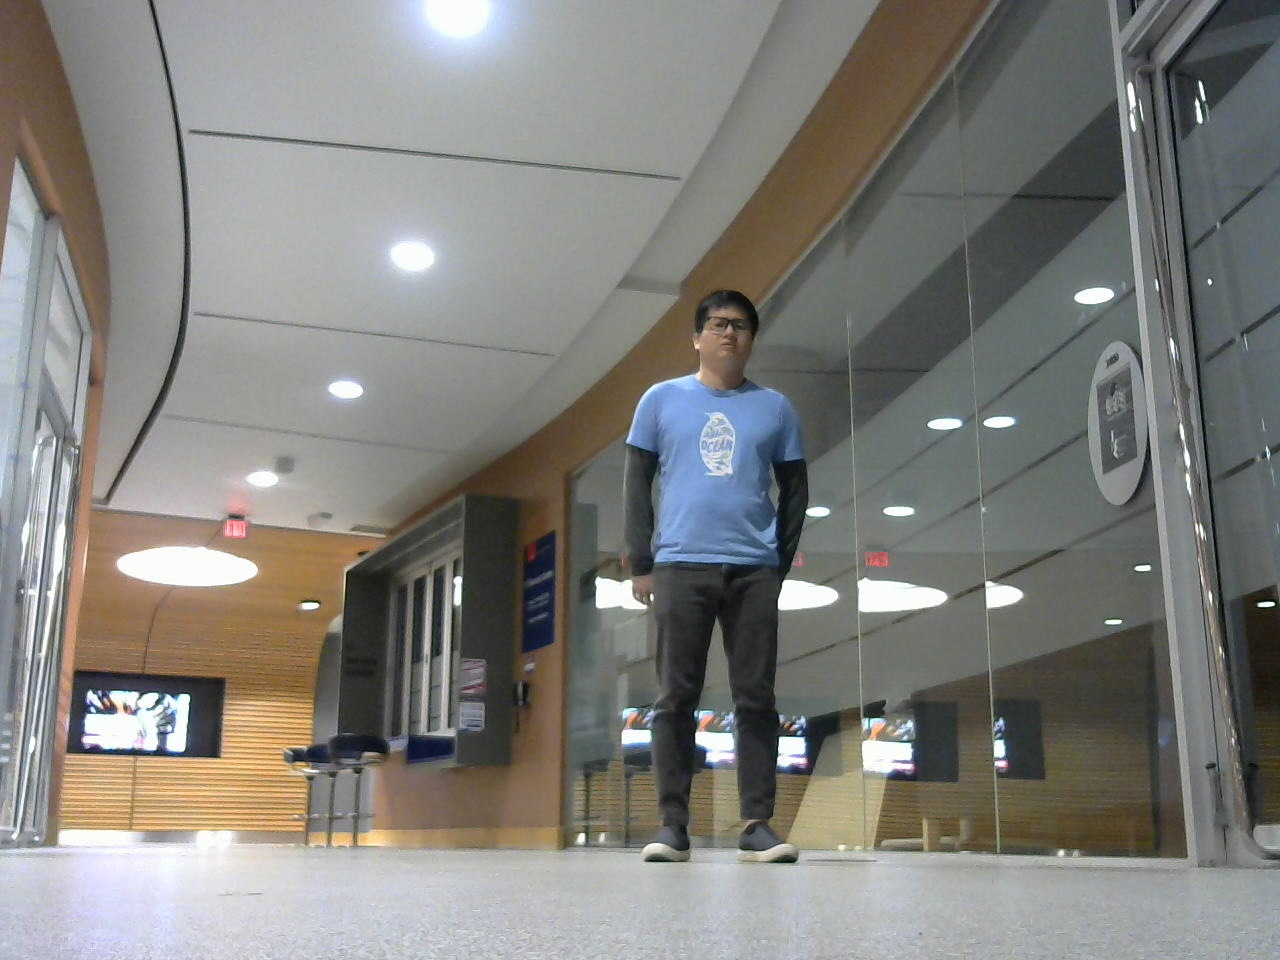
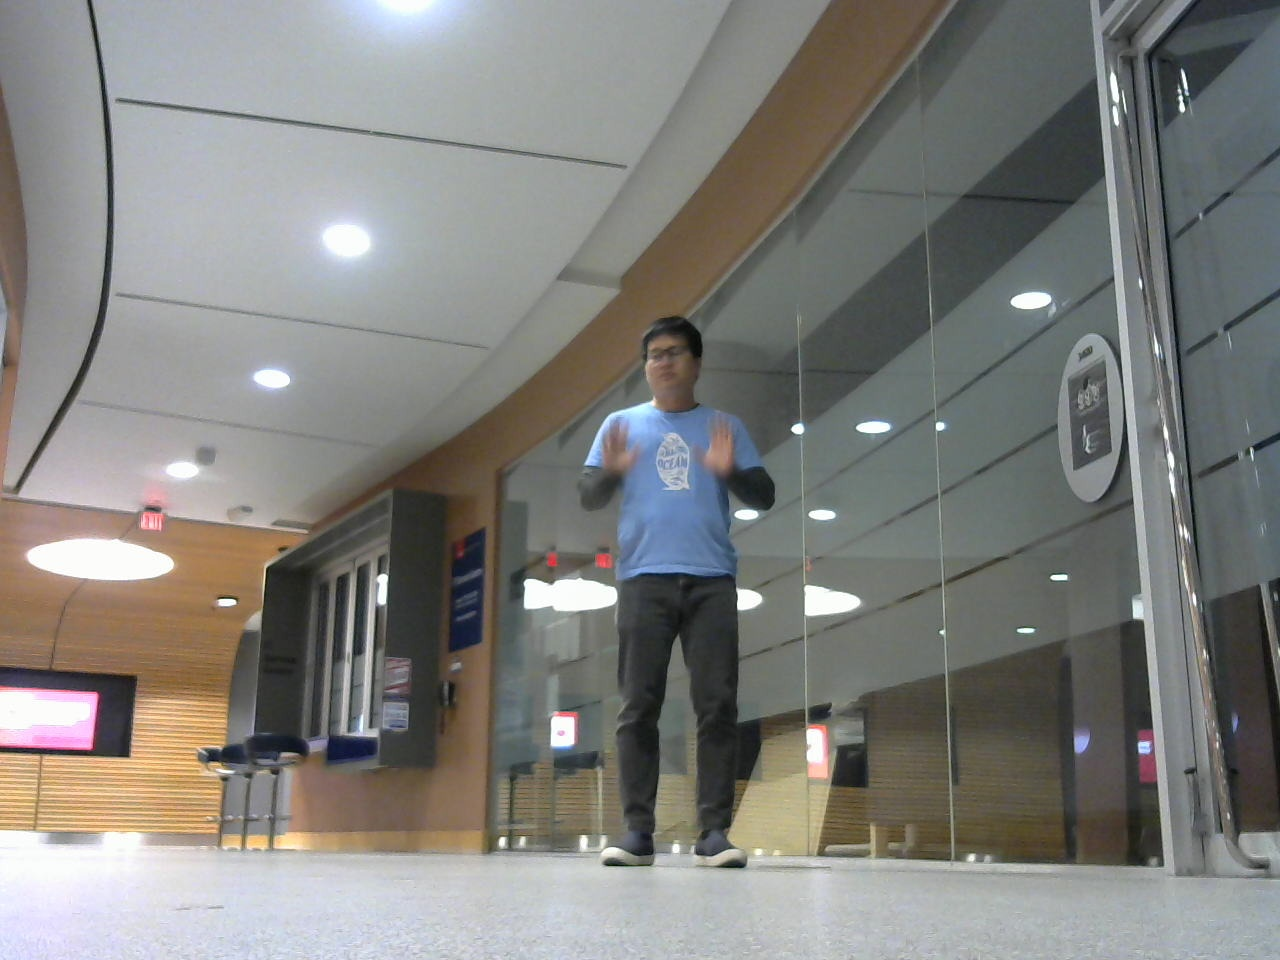
better

diff --git a/app/src/main.c b/app/src/main.c
@@ -41,7 +41,7 @@ int main()
         if (humanPos >= 99999)
         {
             printf("no human found\n");
-            turn_right(25);
+            turn_right(15);
             sleepForMs(1000);
             continue;
             //humanPos = camera_operation();
